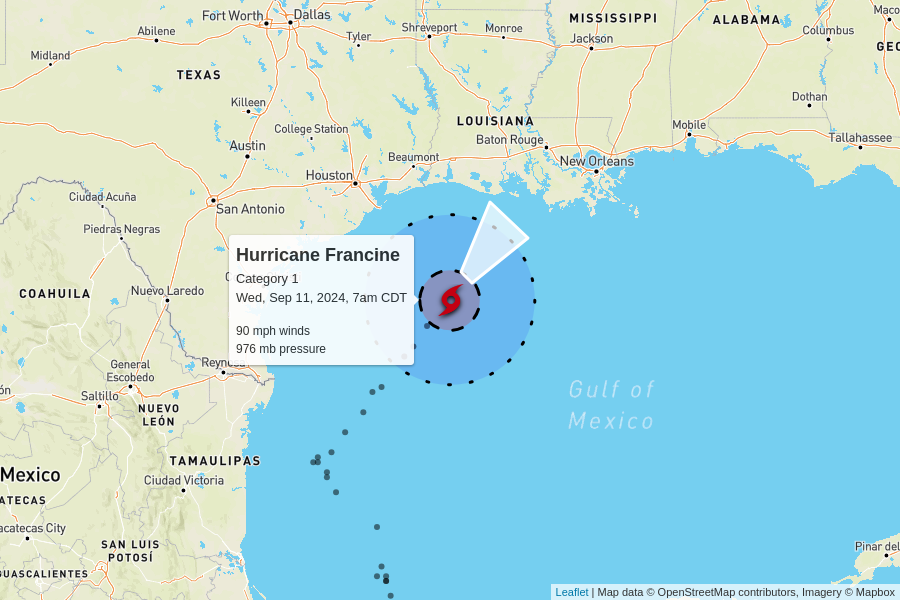
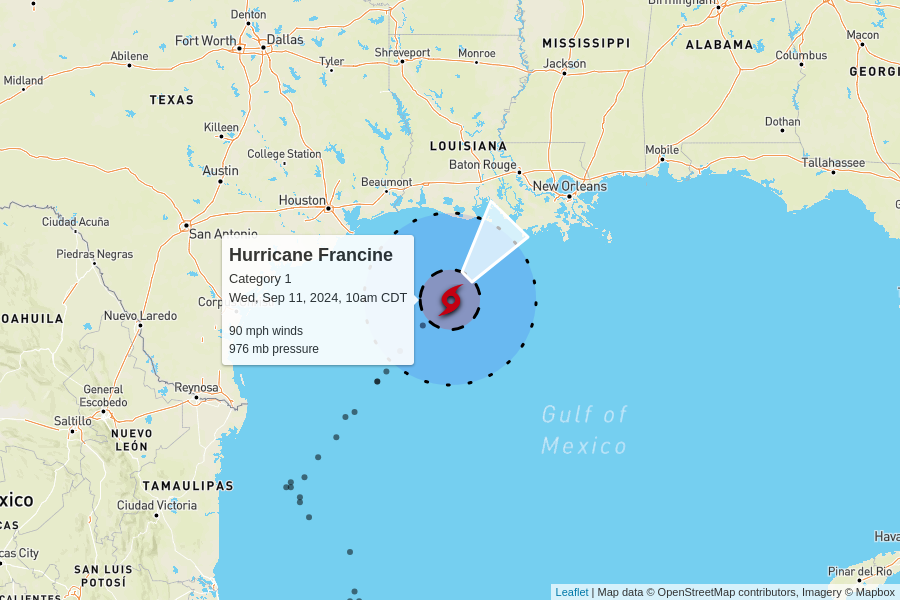
automatic update

diff --git a/docs/index.html b/docs/index.html
@@ -96,13 +96,59 @@
     </p>
 
     
+    <h2>2 active storms</h2>
+    <img src="active.png">
 
     <table>
+      <tr>
+        <td colspan="6" class="storm category-0" >
+          <h2>
+            Tropical Depression Seven
+            <p class="updated">last updated <span data-time>2024-09-11T15:00:00.000Z</span></p>
+          </h2>
+        </td>
+      </tr>
+      
+      <tr>
+        <th class="spacer"></th>
+        <th>wind speed</th>
+        <th>central pressure</th>
+        <th>movement</th>
+        <th>data (CSV)</th>
+        <th>National Hurricane Center</th>
+      </tr>
+      <tr>
+        <td class="spacer"></td>
+        <td>35 mph</td>
+        <td>1007 mb</td>
+        <td>
+          18 mph to the west-northwest
+          <br/>
+          <span style="display: inline-block; font-size: 1.5em; transform: rotate(285deg);">↑</span>
+        </td>
+        <td><a href="https://raw.githubusercontent.com/mgwalker/atlantic-hurricanes/main/data/csv/AL072024.csv">AL072024.csv</a></td>
+        <td><a href="https://www.nhc.noaa.gov/archive/2024/SEVEN.shtml?">NHC advisories</a></td>
+      </tr>
+      <tr id="storm_AL072024" >
+        <td class="spacer">
+        <td colspan="5">
+          <figure>
+            <img src="AL072024.png">
+            <figcaption>
+              Map data &copy; <a href="https://www.openstreetmap.org/copyright">OpenStreetMap</a> contributors,
+              Imagery &copy; <a href="https://www.mapbox.com/">Mapbox</a> |
+              <a href="https://www.mapbox.com/map-feedback/" target="_blank">Improve this map</a>
+            </figcaption>
+          </figure>
+        </td>
+      </tr>
+      
+
       <tr>
         <td colspan="6" class="storm category-1" >
           <h2>
             Hurricane Francine - Category 1
-            <p class="updated">last updated <span data-time>2024-09-11T12:00:00.000Z</span></p>
+            <p class="updated">last updated <span data-time>2024-09-11T15:00:00.000Z</span></p>
           </h2>
         </td>
       </tr>
@@ -118,9 +164,9 @@
       <tr>
         <td class="spacer"></td>
         <td>90 mph<br>0 mph since last update</td>
-        <td>976 mb<br>-1 mb since last update</td>
+        <td>976 mb<br>0 mb since last update</td>
         <td>
-          12 mph to the northeast
+          13 mph to the northeast
           <br/>
           <span style="display: inline-block; font-size: 1.5em; transform: rotate(40deg);">↑</span>
         </td>
